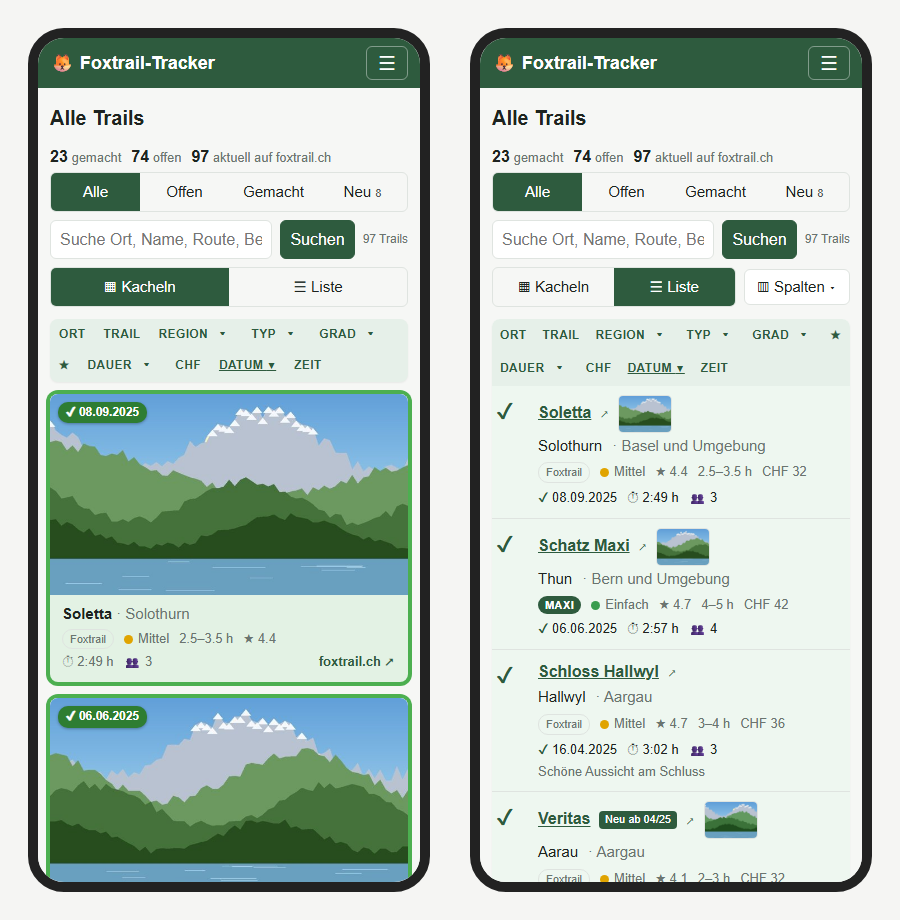
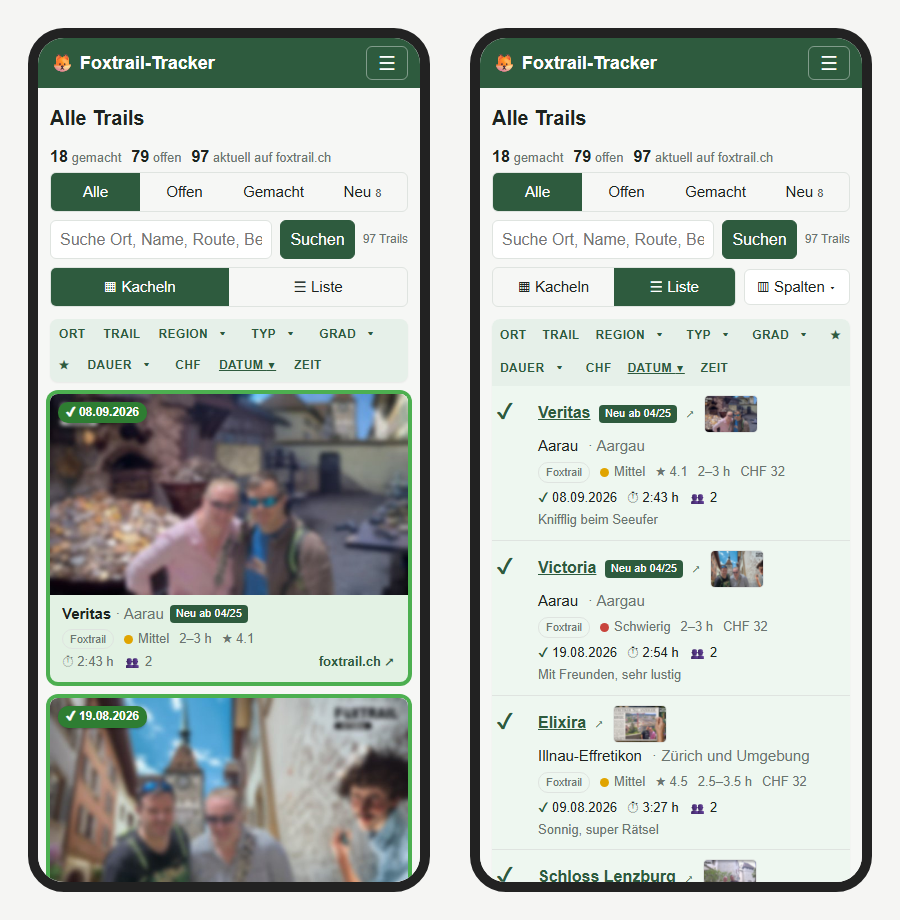
README: Screenshots mit echten, unscharfen Bildern
Eigene Schlussfotos und Titelbilder leicht unscharf, Eintraege erfunden.
bsp/ (Vorlagen) ist gitignored.

diff --git a/CLAUDE.md b/CLAUDE.md
@@ -80,8 +80,9 @@ gehören ihr. Disclaimer im README und im Footer nicht entfernen.
   Fehler 1 h) im Hintergrund-Thread `api.github.com/.../releases/latest` ab; orangefarbener Punkt
   am Zahnrad + Menüeintrag. Tests fragen nie an (`app.testing`). `dev-update.sh` schreibt
   `DEV_STAND` (Anzeige „Entwicklungsstand main@abc1234“), ein Release-Update entfernt ihn.
-- **Screenshots** im README (`docs/screenshots/`): nur erfundene Demo-Daten und gezeichnete
-  Platzhalterbilder, keine echten Fotos und keine Titelbilder von foxtrail.ch (Rechte).
+- **Screenshots** im README (`docs/screenshots/`): erfundene Einträge, echte Bilder nur unscharf
+  (Gaussian-Blur ~0.65 % der Bildbreite): Schlussfotos von Bruno (Vorlagen in `bsp/`, gitignored)
+  und Titelbilder aus dem lokalen Cache. Von Bruno am 2026-09-18 so freigegeben.
 - **Es wird nie ein Trail gelöscht.** Regeln in `foxtrail/sync.py`:
   - neu auf der Website → anlegen (offen, `neu_seit` = Datum; Liste zeigt dauerhaft
     „Neu ab MM/JJ“, Filter `f=neu` listet alle mit `neu_seit`, Standard-Sortierung dort

diff --git a/README.md b/README.md
@@ -22,8 +22,8 @@ bleiben in der Liste, noch offene wandern in ein Archiv.
 
 ![Auf dem Smartphone: Kacheln und Liste als Karten](docs/screenshots/handy.png)
 
-<sub>Screenshots mit erfundenen Beispieldaten; die Bilder sind gezeichnete Platzhalter,
-keine Fotos von foxtrail.ch.</sub>
+<sub>Screenshots mit erfundenen Einträgen; eigene Schlussfotos und Titelbilder von
+foxtrail.ch absichtlich unscharf.</sub>
 
 ## Funktionen
 
